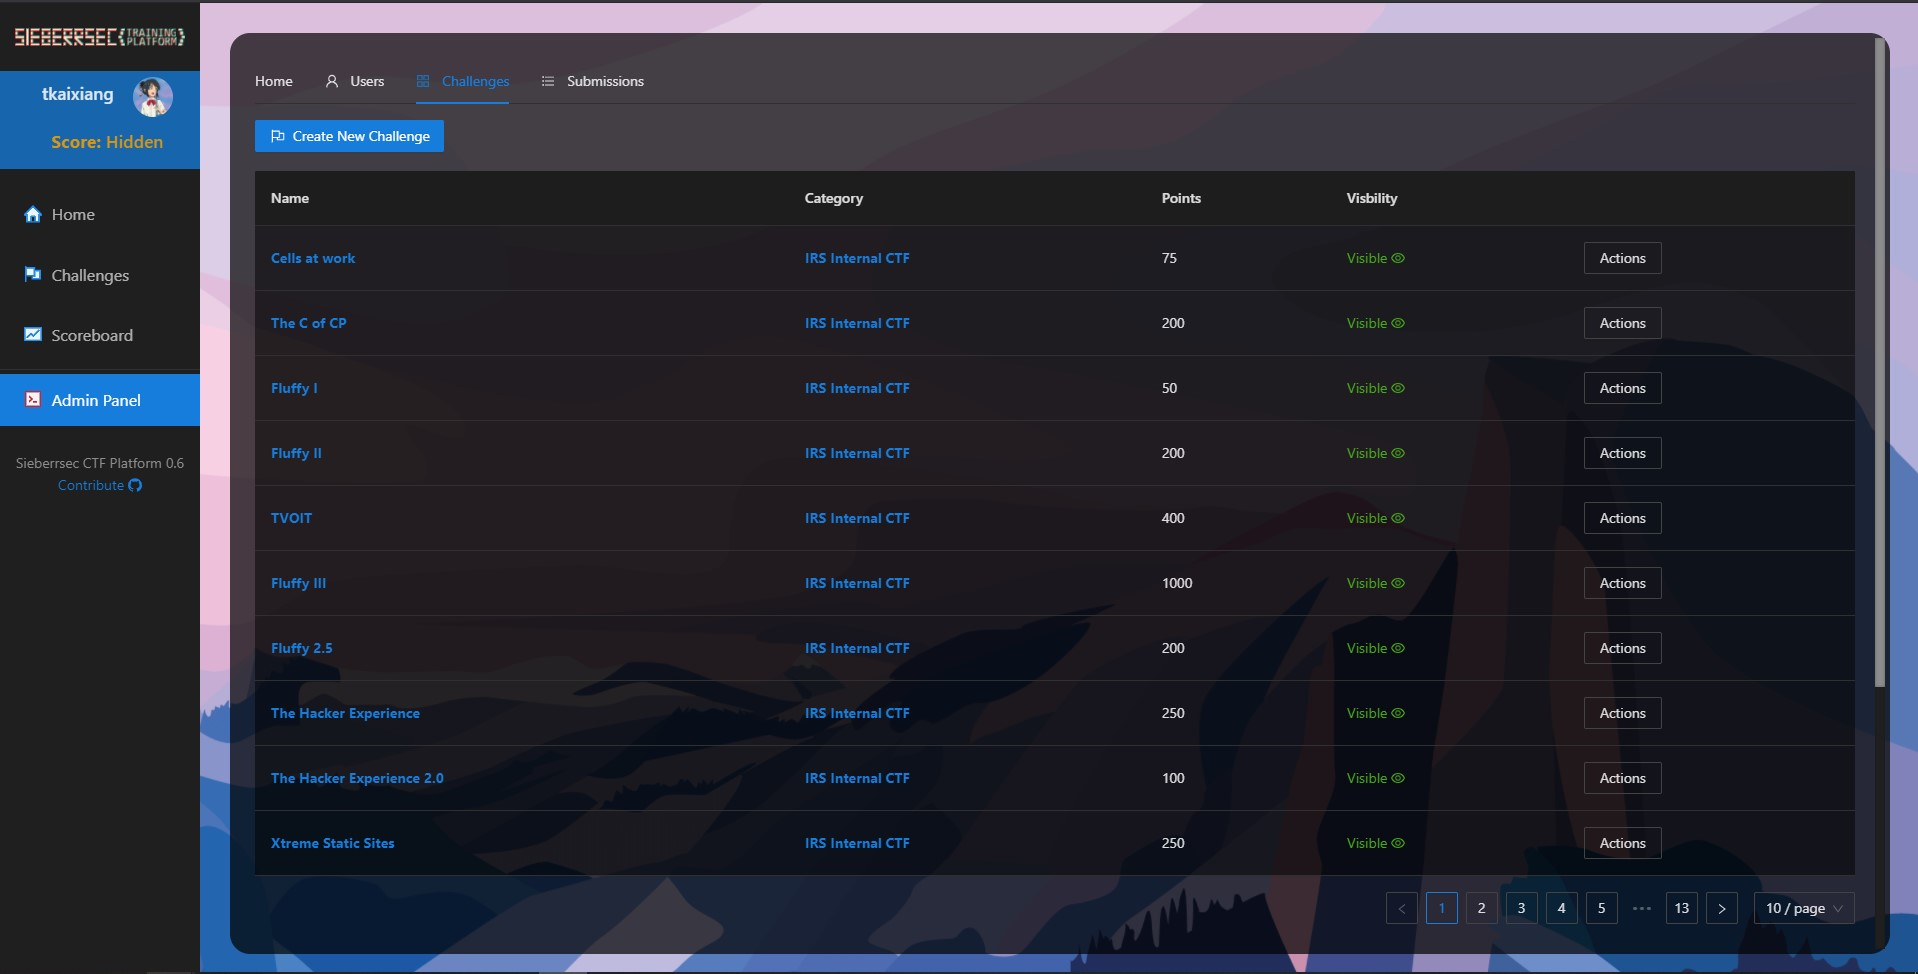
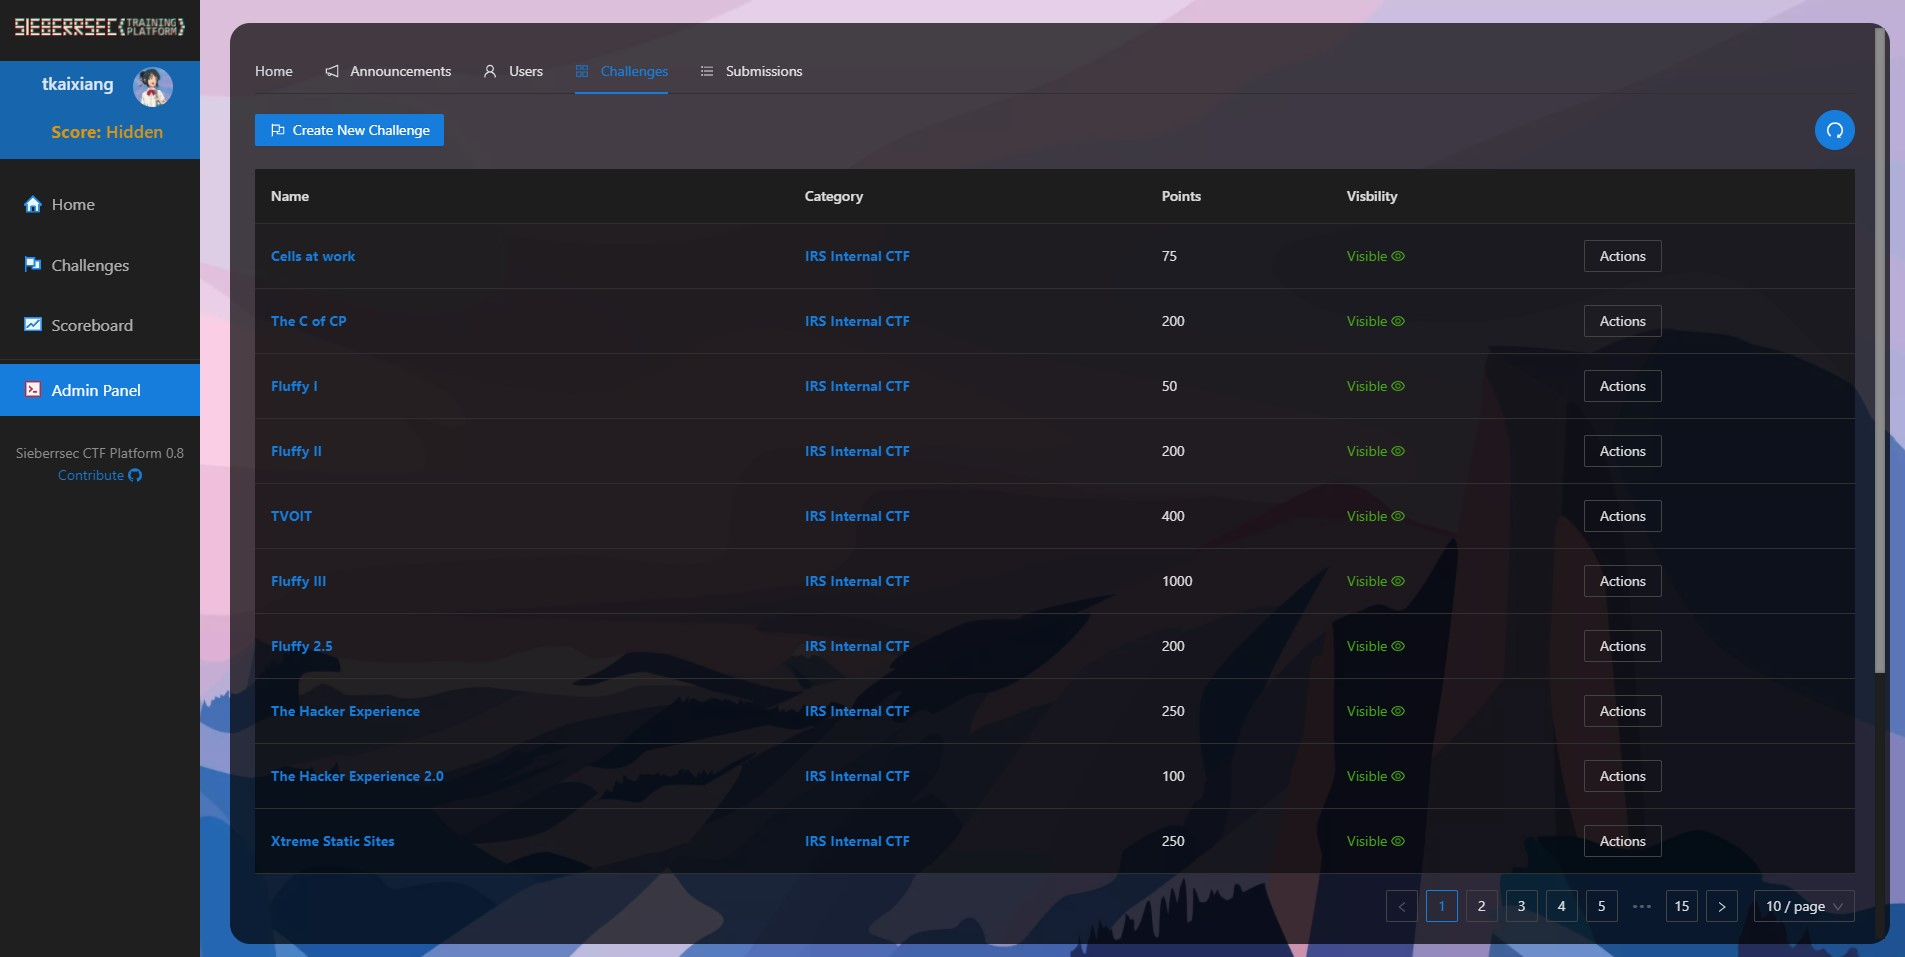
update

diff --git a/README.md b/README.md
@@ -7,12 +7,14 @@ Feel free to take a look at the screenshots below for a peek at what the platfor
 
 ## Features
 
-- "Categories" for better organization of challenges into different "events"
-- Automatic Tag Sorting
+- "**Categories**" for better organization of challenges into different "events"
+- **Sorting of challenges** by their tags
+- **Announcements** with markdown support
+- **Markdown supported Challenge Descriptions** that allow you to add **code blocks with syntax highlighting, math** and more
+- **Writeup links** per challenge (along with the option to only release writeups after submitting the flag)
+- Links to each challenge so that individual challenges can be shared
 - Easy management of challenges and users
-- JSX supported Challenge Descriptions which allow you to add videos, code blocks and more!
-- Writeup links per challenge
-- ReactJS Goodness
+- ReactJS Modern Design (lol)
 
 ## Screenshots
 
@@ -26,7 +28,7 @@ Feel free to take a look at the screenshots below for a peek at what the platfor
 
 ![](6.jpg)
 
-*Modal for a specific challenge*
+*Modal for a challenge*
 
 ![](2.jpg)
 
@@ -43,3 +45,7 @@ Feel free to take a look at the screenshots below for a peek at what the platfor
 ![](7.jpg)
 
 *Profile page of a user*
+
+![](8.jpg)
+
+*Home page with announcements*
